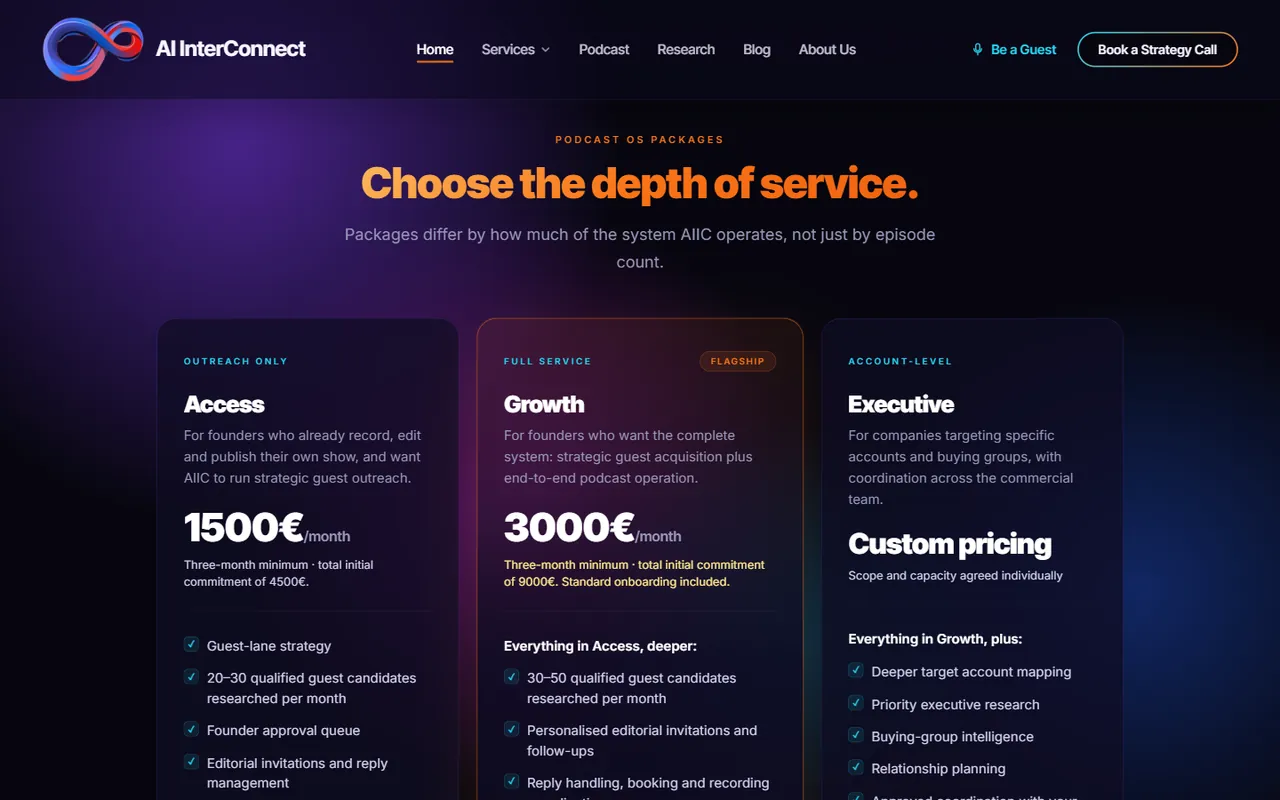
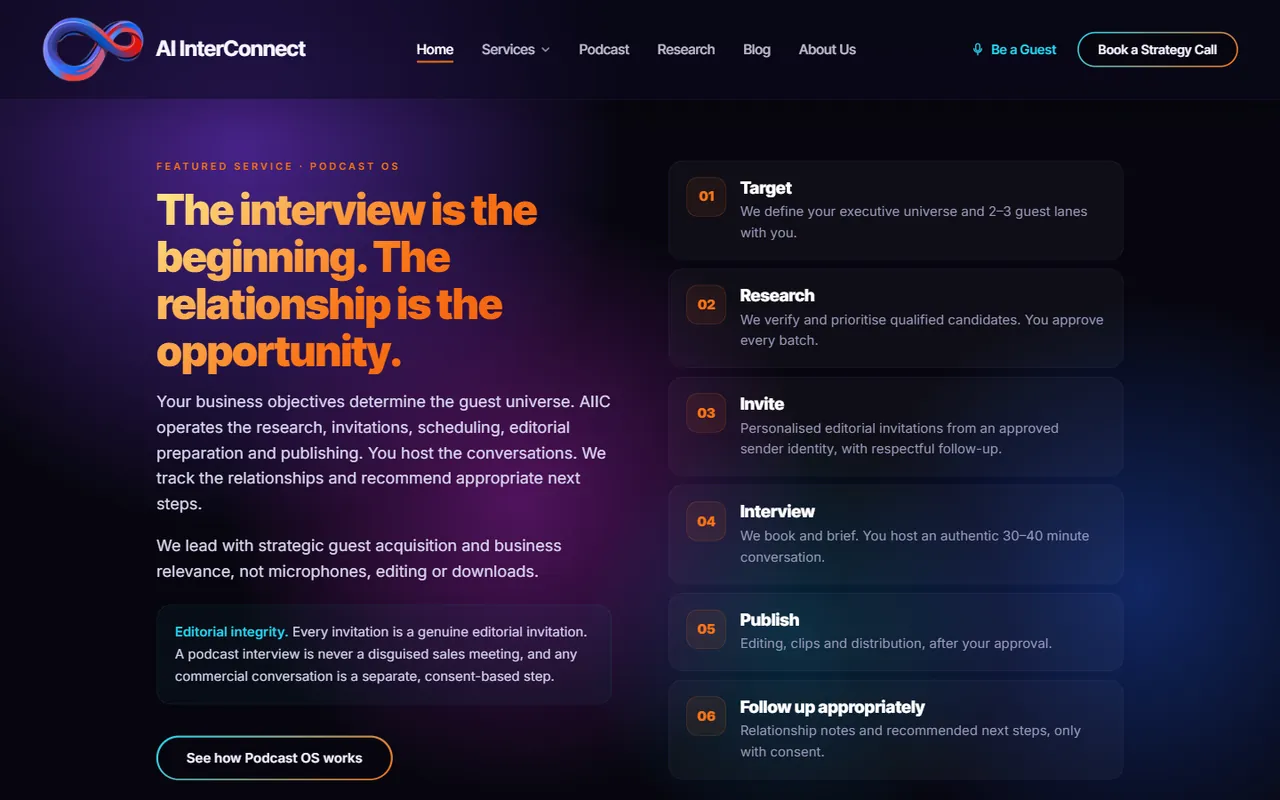
Web builds: show the AI InterConnect process section instead of packages

diff --git a/src/constants/index.js b/src/constants/index.js
@@ -294,8 +294,8 @@ export const clientProjects = [
       },
       {
         key: "inner",
-        label: "Packages",
-        alt: "AI InterConnect service packages section with three plan cards",
+        label: "Process",
+        alt: "AI InterConnect process section: a headline beside six numbered steps from target to follow-up",
       },
     ],
   },
